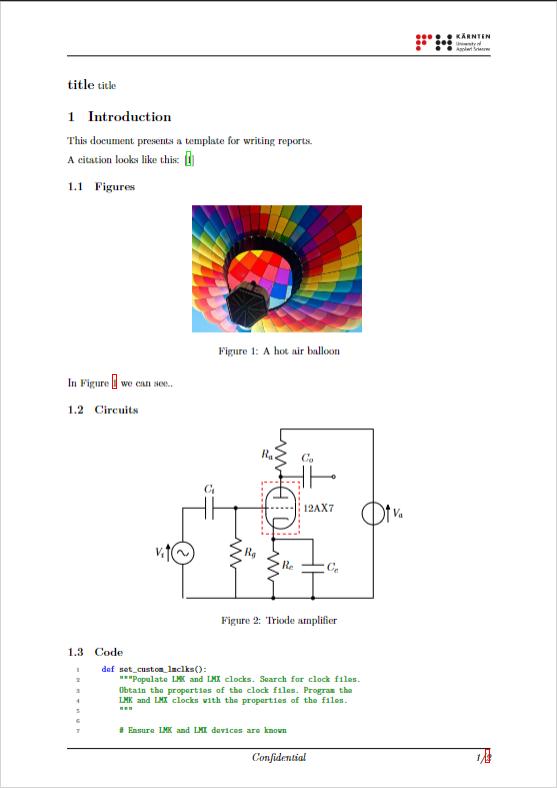
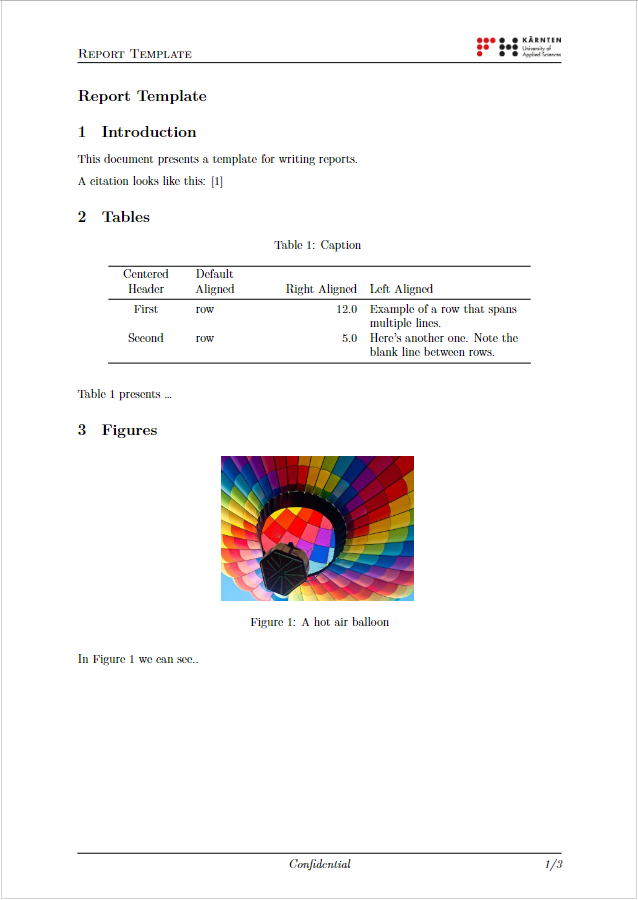
Update sections and preamble

diff --git a/sections/introduction.tex b/sections/introduction.tex
@@ -3,68 +3,3 @@
 This document presents a template for writing reports.
 
 A citation looks like this: \cite{10285163}
-
-\subsection{Figures}\label{subsec:figures}
-
-\begin{figure}
-    \centering
-    \includegraphics[width=0.4\linewidth,height=\textheight,keepaspectratio]{images/hot-air-balloon.jpg}
-    \caption{A hot air balloon}\label{fig:logo}
-\end{figure}
-
-In Figure~\ref{fig:logo} we can see..
-
-
-\subsection{Circuits}\label{subsec:circuits}
-
-\begin{figure}
-\centering
-
-\begin{circuitikz}
-\draw (0,0) node (start) {}
-to[sV=$V_i$] ++(0,2+\ctikzvalof{tubes/height})
-to[C=$C_i$] ++(2,0) coordinate(Rg)
-to[R=$R_g$] (Rg |- start)
-(Rg) to[short,*-] ++(1,0)
-node[triode,anchor=control] (Tri) {} ++(2,0)
-(Tri.cathode) to[R=$R_c$,-*] (Tri.cathode |- start)
-(Tri.anode) to [R=$R_a$] ++(0,2)
-to [short] ++(3.5,0) node(Vatop) {}
-to [V<=$V_a$] (Vatop |- start)
-to [short] (start)
-(Tri.anode) ++(0,0.2) to[C=$C_o$,*-o] ++(2,0)
-(Tri.cathode) ++(0,-0.2) to[short,*-] ++(1.5,0) node(Cctop) {}
-to[C=$C_c$,-*] (start -| Cctop)
-;
-\draw[red,thin,dashed] (Tri.north west) rectangle (Tri.south east);
-\draw (Tri.east) node[right] {12AX7};
-\end{circuitikz}
-
-\caption{Triode amplifier}\label{fig:triode_amplifier}
-\end{figure}
-
-
-\subsection{Code}\label{subsec:code}
-
-\begin{lstlisting}[language=Python, caption={The preprocessing step}, label=lst:python]
-    def set_custom_lmclks():
-        """Populate LMK and LMX clocks. Search for clock files.
-        Obtain the properties of the clock files. Program the
-        LMK and LMX clocks with the properties of the files.
-        """
-        
-        # Ensure LMK and LMX devices are known
-        _get_lmclk_devices()
-        
-        # Get custom ref clock locs
-        cwd = os.path.dirname(os.path.realpath(__file__))
-        lmk_loc, lmx_loc = _get_custom_lmclks(cwd)
-        
-        # Get custom ref clock props
-        clk_props = _get_custom_lmclk_props(lmk_loc, lmx_loc)
-        
-        # Program custom ref clocks
-        _program_custom_lmclks(clk_props)
-\end{lstlisting}
-
-A code listing can be found in Listing~\ref{lst:python}.

diff --git a/preamble.tex b/preamble.tex
@@ -1,10 +1,18 @@
 % !TeX root = report.tex
 \usepackage[margin=2.5cm]{geometry}
 
-\usepackage[T1]{fontenc}
-\usepackage[utf8]{inputenc}
+\usepackage{amsmath,amssymb}  % For advanced math
+\usepackage{iftex}
+\ifPDFTeX
+  \usepackage[T1]{fontenc}
+  \usepackage[utf8]{inputenc}
+  \usepackage{textcomp} % provide euro and other symbols
+\else % if luatex or xetex
+  \usepackage{unicode-math} % this also loads fontspec
+  \defaultfontfeatures{Scale=MatchLowercase}
+  \defaultfontfeatures[\rmfamily]{Ligatures=TeX,Scale=1}
+\fi
 \usepackage{lmodern} % Use the Latin Modern fonts
-\usepackage{fontspec}  % optional
 \usepackage{textcomp} % Provide euro and other symbols
   
 % Use upquote if available, for straight quotes in verbatim environments
@@ -22,10 +30,8 @@
 \providecommand{\tightlist}{%
   \setlength{\itemsep}{0pt}\setlength{\parskip}{0pt}}
 
-\usepackage{amsmath,amssymb}  % For advanced math
 \usepackage{graphicx} % For including graphics
 \usepackage[pdfusetitle]{hyperref} % For hyperlinks in the document
-\usepackage{fancyhdr} % For header and footer
 \usepackage{lastpage} % To get the last page number
 \usepackage{xcolor} % To use custom colors
 \usepackage[bottom]{footmisc} % Put footnotes to bottom of the page
@@ -108,9 +114,9 @@
 \addbibresource{references.bib} %Import the bibliography file
 % When using nocite, disable warnings from biblatex
 %\silence{package}{biblatex}
-\DeclareFieldFormat*{title}{\MakeCapital{#1}}   % Change titles to sentence case
 
 % Header and footer settings
+\usepackage{fancyhdr} % For header and footer
 \pagestyle{fancy}
 \usepackage{extramarks}
 \setlength{\headheight}{24.7pt}
@@ -123,11 +129,13 @@
 \renewcommand{\headrulewidth}{0.2pt}
 \renewcommand{\footrulewidth}{0.2pt}
 
+%\hypersetup{hidelinks}
+
+\makeatletter
 \newcommand{\makecustomtitle}{%
-  \makeatletter
   {\Large{\textbf{\@title}}}
   \let\thetitle\@title  % Save the title for header
-  \makeatother
 }
+\makeatother
 
 %\setcounter{secnumdepth}{-\maxdimen} % remove section numbering

diff --git a/sections/tables.tex b/sections/tables.tex
@@ -1,0 +1,40 @@
+\section{Tables}\label{sec:tables}
+
+\begin{longtable}[]{@{}
+    >{\centering\arraybackslash}p{(\linewidth - 6\tabcolsep) * \real{0.1667}}
+    >{\raggedright\arraybackslash}p{(\linewidth - 6\tabcolsep) * \real{0.1111}}
+    >{\raggedleft\arraybackslash}p{(\linewidth - 6\tabcolsep) * \real{0.2222}}
+    >{\raggedright\arraybackslash}p{(\linewidth - 6\tabcolsep) * \real{0.3611}}@{}}
+  \caption{Caption \label{tbl:table1}}\tabularnewline
+  \toprule\noalign{}
+  \begin{minipage}[b]{\linewidth}\centering
+  Centered Header
+  \end{minipage} & \begin{minipage}[b]{\linewidth}\raggedright
+  Default Aligned
+  \end{minipage} & \begin{minipage}[b]{\linewidth}\raggedleft
+  Right Aligned
+  \end{minipage} & \begin{minipage}[b]{\linewidth}\raggedright
+  Left Aligned
+  \end{minipage} \\
+  \midrule\noalign{}
+  \endfirsthead
+  \toprule\noalign{}
+  \begin{minipage}[b]{\linewidth}\centering
+  Centered Header
+  \end{minipage} & \begin{minipage}[b]{\linewidth}\raggedright
+  Default Aligned
+  \end{minipage} & \begin{minipage}[b]{\linewidth}\raggedleft
+  Right Aligned
+  \end{minipage} & \begin{minipage}[b]{\linewidth}\raggedright
+  Left Aligned
+  \end{minipage} \\
+  \midrule\noalign{}
+  \endhead
+  \bottomrule\noalign{}
+  \endlastfoot
+  First & row & 12.0 & Example of a row that spans multiple lines. \\
+  Second & row & 5.0 & Here's another one. Note the blank line between
+  rows. \\
+  \end{longtable}
+  
+  Table~\ref{tbl:table1} presents \ldots{}

diff --git a/sections/circuits.tex b/sections/circuits.tex
@@ -1,0 +1,26 @@
+\section{Circuits}\label{sec:circuits}
+
+\begin{figure}
+\centering
+\begin{circuitikz}[scale=0.8, transform shape]
+\draw (0,0) node (start) {}
+to[sV=$V_i$] ++(0,2+\ctikzvalof{tubes/height})
+to[C=$C_i$] ++(2,0) coordinate(Rg)
+to[R=$R_g$] (Rg |- start)
+(Rg) to[short,*-] ++(1,0)
+node[triode,anchor=control] (Tri) {} ++(2,0)
+(Tri.cathode) to[R=$R_c$,-*] (Tri.cathode |- start)
+(Tri.anode) to [R=$R_a$] ++(0,2)
+to [short] ++(3.5,0) node(Vatop) {}
+to [V<=$V_a$] (Vatop |- start)
+to [short] (start)
+(Tri.anode) ++(0,0.2) to[C=$C_o$,*-o] ++(2,0)
+(Tri.cathode) ++(0,-0.2) to[short,*-] ++(1.5,0) node(Cctop) {}
+to[C=$C_c$,-*] (start -| Cctop);
+\draw[red,thin,dashed] (Tri.north west) rectangle (Tri.south east);
+\draw (Tri.east) node[right] {12AX7};
+\end{circuitikz}
+\caption{Triode amplifier}\label{fig:triode_amplifier}
+\end{figure}
+
+In Figure~\ref{fig:triode_amplifier} shows a circuit diagram of a triode tube amplifier.

diff --git a/sections/code.tex b/sections/code.tex
@@ -1,0 +1,24 @@
+\section{Code}\label{sec:code}
+
+\begin{lstlisting}[language=Python, caption={The preprocessing step}, label=lst:python]
+    def set_custom_lmclks():
+        """Populate LMK and LMX clocks. Search for clock files.
+        Obtain the properties of the clock files. Program the
+        LMK and LMX clocks with the properties of the files.
+        """
+        
+        # Ensure LMK and LMX devices are known
+        _get_lmclk_devices()
+        
+        # Get custom ref clock locs
+        cwd = os.path.dirname(os.path.realpath(__file__))
+        lmk_loc, lmx_loc = _get_custom_lmclks(cwd)
+        
+        # Get custom ref clock props
+        clk_props = _get_custom_lmclk_props(lmk_loc, lmx_loc)
+        
+        # Program custom ref clocks
+        _program_custom_lmclks(clk_props)
+\end{lstlisting}
+
+A code listing can be found in Listing~\ref{lst:python}.

diff --git a/report.tex b/report.tex
@@ -3,7 +3,7 @@
 \input{preamble.tex} % Include the preamble settings
 
 % Set title, author, and date
-\title{WP3 Report Template}
+\title{Report Template}
 \author{Your~Name}
 \date{\today}
 
@@ -20,6 +20,10 @@
 
 % Include sections
 \input{sections/introduction.tex}
+\input{sections/tables.tex}
+\input{sections/figures.tex}
+\input{sections/circuits.tex}
+\input{sections/code.tex}
 
 % Bibliography
 \nocite{*} % Include all references

diff --git a/sections/figures.tex b/sections/figures.tex
@@ -1,0 +1,9 @@
+\section{Figures}\label{sec:figures}
+
+\begin{figure}
+    \centering
+    \includegraphics[width=0.4\linewidth,height=\textheight,keepaspectratio]{images/hot-air-balloon.jpg}
+    \caption{A hot air balloon}\label{fig:logo}
+\end{figure}
+
+In Figure~\ref{fig:logo} we can see..
